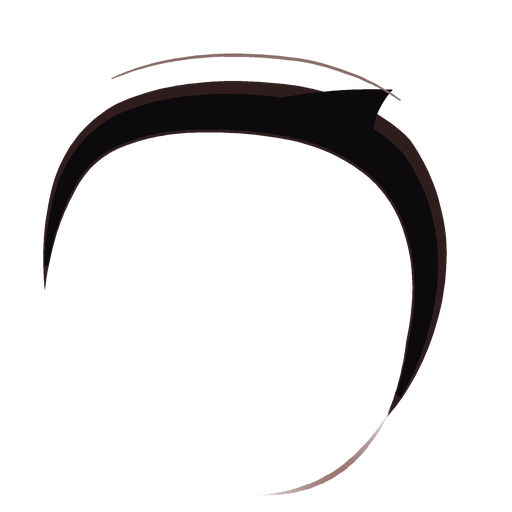
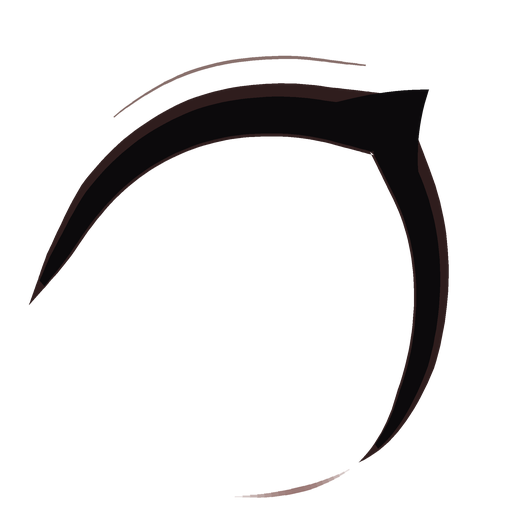
目の輪郭を斜めの上縁と目尻の角がある形に変更

Changed region(s): [[0.0625, 0.0938, 0.875, 1.0]]

diff --git a/mmdgen/textures.py b/mmdgen/textures.py
@@ -19,12 +19,14 @@ def _mix(a, b, t):
 # ---- 目の形：白目・瞳・まつ毛が同じ輪郭を共有する ----
 # 座標 (A, B) は目の板の上の位置。A は rx 単位で目頭 -1 → 目尻 +1、B は ry 単位で上が +。
 # 白目の板は A, B とも ±1、絵の輪郭はその 92%（measure.py が見える目の端をそう数える）。
-# 既製モデル（Tda式ミク・キズナアイ系）の目：縦長で角の丸い D 字、目頭だけ尖る。
-# 上の縁は内側でぐっと立ち上がって平らに伸び、目尻側は丸く下りて外側の縁がほぼ縦になる。
-# いちばん幅があるのは上寄りで、下は丸くすぼまる（卵を少し倒した形）。
-EYE_CTRL = [(-0.92, -0.10), (-0.88, 0.40), (-0.72, 0.78), (-0.38, 0.93), (0.06, 0.94), (0.48, 0.86),
-            (0.80, 0.62), (0.93, 0.22), (0.88, -0.24), (0.72, -0.62), (0.44, -0.88), (0.02, -0.94),
-            (-0.42, -0.86), (-0.74, -0.60), (-0.90, -0.34), (-0.92, -0.10)]
+# 既製モデル（Tda式ミク・キズナアイ系）の目は丸ではなく角のある形：
+# 上の縁は目頭の角から目尻側の頂点へほぼまっすぐ斜めに上がり、頂点は真ん中より目尻寄り。
+# 目尻の上に角があり、外側の縁はほぼ縦に下りて下で丸く回り込む。下の縁は平ら、目頭側の縁もほぼ縦。
+# 同じ点を 2 回置いた所は角として残る（_chaikin が角を丸めきらない）。
+EYE_CTRL = [(-0.92, 0.12), (-0.58, 0.64), (-0.16, 0.89), (0.30, 0.93), (0.70, 0.82), (0.70, 0.82),
+            (0.92, 0.36), (0.92, -0.20), (0.72, -0.72), (0.30, -0.93), (-0.30, -0.92), (-0.78, -0.74),
+            (-0.93, -0.30), (-0.92, 0.12)]
+EYE_CORNER = (0.70, 0.82)  # 目尻の上の角（まつ毛がいちばん太く、ハネが出る所）
 
 
 def _chaikin(p, it=4):
@@ -42,13 +44,15 @@ def eye_outline():
     return _chaikin(EYE_CTRL)
 
 
-def eye_top_arc():
-    """上まつ毛の通り道：目頭の少し上（細い鉤になって下りてくる所）から上の縁を回り、
-    目尻の外側の縁を下の方まで包んで下りる。"""
+def eye_top_arc(k):
+    """上まつ毛の通り道：目頭の角の少し先（細く尖って終わる所）から上の縁を通り、
+    目尻の角を回って外側の縁を下の端近くまで包む。"""
     o = eye_outline()
-    start = np.argmax(o[:, 1] > 0.10)
-    end = np.argmax((o[:, 0] > 0.5) & (o[:, 1] < -0.52))
-    return o[start:end + 1]
+    end = np.argmax((o[:, 0] > 0.4) & (o[:, 1] < -0.74))
+    arc = o[:end + 1]
+    d = (arc[0] - arc[3]) * [k, 1.0]
+    tail = arc[0] + d / np.linalg.norm(d) * 0.12 / [k, 1.0]
+    return np.vstack([tail, arc])
 
 
 def _offset(arc, th, k):
@@ -148,8 +152,8 @@ class TextureSet:
         n = 256 * S
         color = np.asarray(color, float)
         y, x = np.mgrid[0:n, 0:n] / (n - 1)
-        dx = (x - 0.50) / 0.49
-        dy = (y - 0.50) / 0.49
+        dy = (y - 0.50) / 0.47
+        dx = (x - 0.50) / 0.47 + 0.12 * dy  # 上ほど目尻側へ少し傾ける（上の縁の傾きに合わせる）
         r = np.sqrt(dx * dx + dy * dy)
         ang = np.arctan2(dy, dx)
 
@@ -199,11 +203,13 @@ class TextureSet:
         img = Image.new("RGBA", (n, n), (0, 0, 0, 0))
         d = ImageDraw.Draw(img)
         to_px = _to_px(ext, n)
-        arc = eye_top_arc()
+        arc = eye_top_arc(k)
         s = np.concatenate([[0], np.cumsum(np.linalg.norm(np.diff(arc * [k, 1], axis=0), axis=1))])
         s /= s[-1]
-        th = np.interp(s, [0.00, 0.05, 0.13, 0.24, 0.40, 0.58, 0.68, 0.78, 0.90, 1.00],
-                          [0.00, 0.04, 0.10, 0.17, 0.21, 0.24, 0.27, 0.21, 0.10, 0.00])
+        ic = int(np.argmin(np.linalg.norm(arc - EYE_CORNER, axis=1)))
+        sc = s[ic]  # 目尻の角
+        th = np.interp(s, [0.00, 0.06, 0.15, 0.32, sc - 0.08, sc, sc + 0.12, sc + 0.26, 1.00],
+                          [0.00, 0.08, 0.15, 0.20, 0.23, 0.27, 0.21, 0.14, 0.00])
         # 白目の縁に少しかぶせて隙間を出さない（両端は細く尖らせる）
         inner = _offset(arc, -0.045 * np.clip(th / 0.10, 0, 1), k)
         outer = _offset(arc, th, k)
@@ -216,8 +222,8 @@ class TextureSet:
         d.polygon(to_px([tuple(p) for p in core_o[sel][::-1]] + [tuple(p) for p in core_i[sel]]), fill=_rgb(color))
 
         # 目尻のハネ：上の縁が外側へ下りはじめる角から、横へ細く尖らせる
-        i0, i1, im = (int(np.argmin(np.abs(s - t))) for t in (0.50, 0.64, 0.58))
-        tip = outer[im] + np.array([0.34 / k, 0.04])
+        i0, i1, im = (int(np.argmin(np.abs(s - t))) for t in (sc - 0.07, sc + 0.06, sc))
+        tip = outer[im] + np.array([0.30 / k, 0.02])
         base0, base1 = outer[i0] - (outer[i0] - arc[i0]) * 0.3, outer[i1] - (outer[i1] - arc[i1]) * 0.3
         q = np.linspace(0, 1, 12)[:, None]
         up = (1 - q) ** 2 * base0 + 2 * q * (1 - q) * ((base0 + tip) / 2 + [0.0, 0.03]) + q ** 2 * tip
@@ -225,7 +231,7 @@ class TextureSet:
         d.polygon(to_px([tuple(p) for p in np.vstack([up, dn])]), fill=_rgb(color))
 
         # 二重の線：まつ毛の上、目頭寄りから目尻手前まで細く
-        sel = (s > 0.24) & (s < 0.66)
+        sel = (s > 0.22) & (s < sc - 0.03)
         crease = _offset(arc, th + 0.13, k)[sel]
         w = np.sin(np.linspace(0, np.pi, len(crease))) ** 0.6
         for a, b, ww in zip(crease[:-1], crease[1:], w[:-1]):
@@ -233,7 +239,7 @@ class TextureSet:
 
         # 下まぶた：目尻側の下の縁に沿う淡い茶の線（目頭側は描かない）
         o = eye_outline()
-        lo = o[(o[:, 1] < -0.48) & (o[:, 0] > 0.12)]
+        lo = o[(o[:, 1] < -0.76) & (o[:, 0] > 0.0)]
         lo = lo[np.argsort(-lo[:, 0])]
         w = np.sin(np.linspace(0, np.pi, len(lo))) ** 0.8
         for a, b, ww in zip(lo[:-1], lo[1:], w[:-1]):
